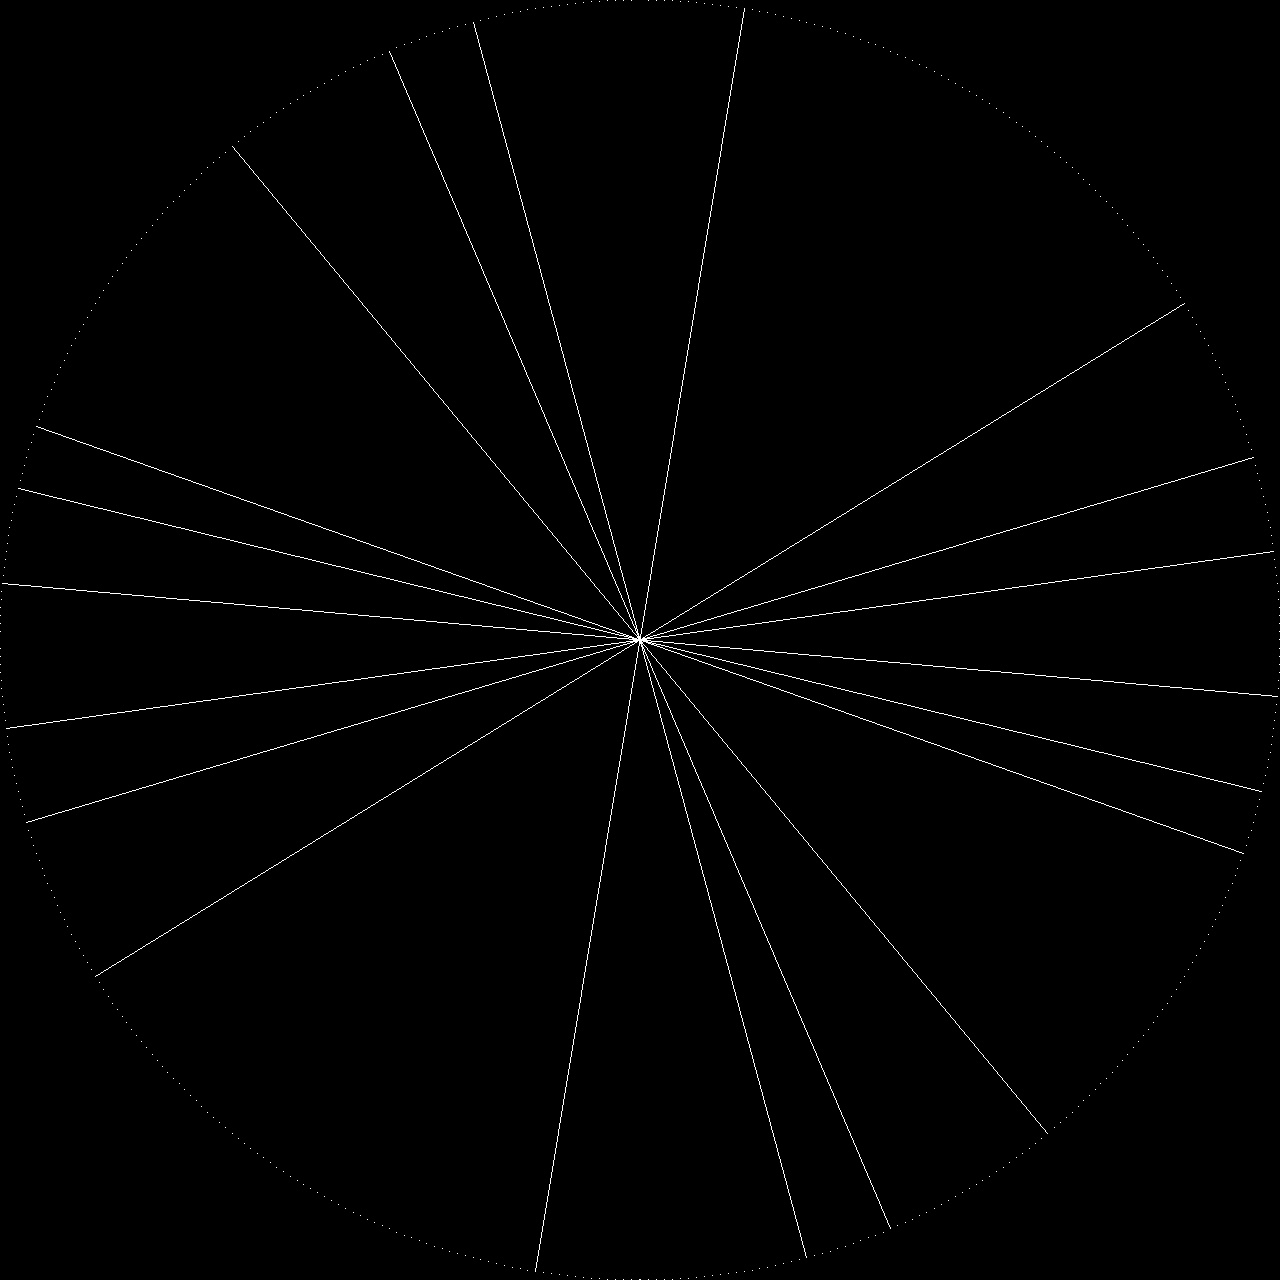
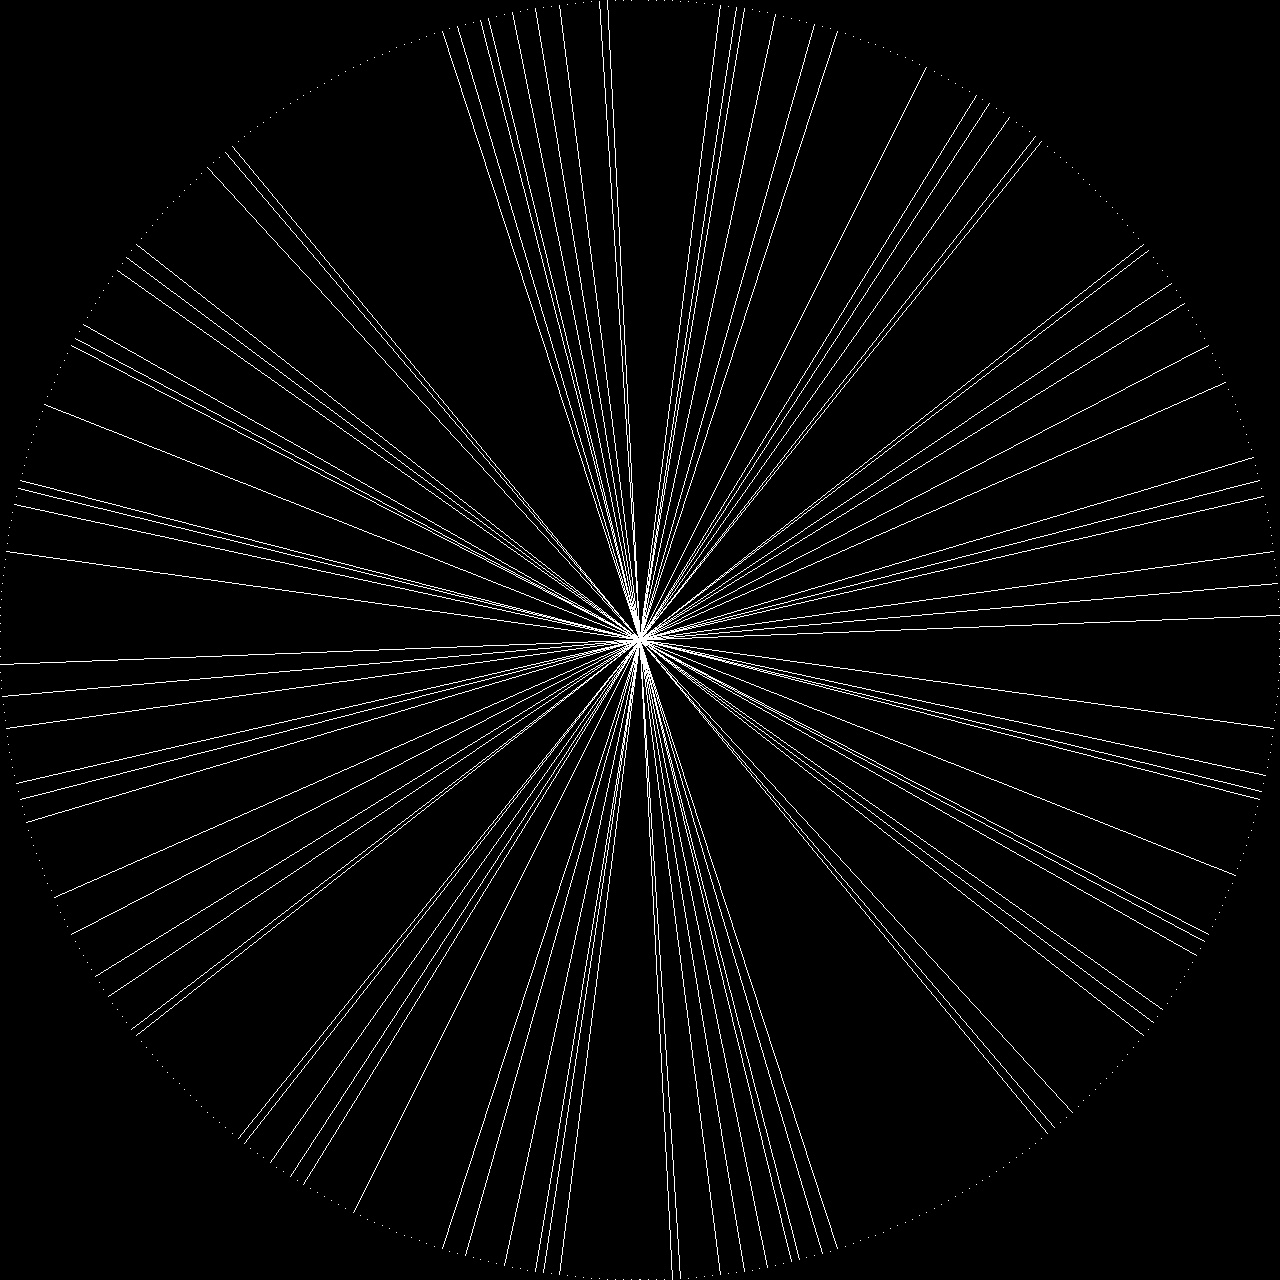
More multithreading for you

diff --git a/main.py b/main.py
@@ -9,6 +9,7 @@ width = 1280
 heigth = 1280
 nails = 500
 nail_pos = list()
+thread_operations = 50
 
 def bresenham(x0, y0, x1, y1):
 	"""Return list of integer (x, y) points on the line from (x0,y0) to (x1,y1)."""
@@ -70,20 +71,29 @@ def opposite_index(i: int, n: int) -> int:
 		raise ValueError("opposite_index requires an even number of nails")
 	return (i + n // 2) % n
 
+def draw_point(angle, nails, img):
+	angle = (2 * math.pi * k) / nails
+	xk = (width/2) + (width / 2) * math.cos(angle)
+	yk = (heigth/2) + (heigth / 2) * math.sin(angle)
+	nail_pos.append((int(xk), int(yk)))
+	img[math.ceil(xk - 1), math.ceil(yk - 1)] = (255, 255, 255)
+
 def run(Image, name: str):
 	original_img = scale(Image)
 	img = np.zeros((width, heigth,3),np.uint8)
 
 	xk = 0
-	for k in range(nails):		
-		angle = (2 * math.pi * k) / nails
-		xk = (width/2) + (width / 2) * math.cos(angle)
-		yk = (heigth/2) + (heigth / 2) * math.sin(angle)
-		nail_pos.append((int(xk), int(yk)))
-		img[math.ceil(xk - 1), math.ceil(yk - 1)] = (255, 255, 255)
+	c_threads = []
+	for k in range(nails):
+		c_threads.append(thr.Thread(target=draw_point, args=(angle, nails, img)))
+	for i in range(nails):
+		c_threads[i].start()
+	for i in range(nails):
+		c_threads[i].join()
+
 	threads = []
 
-	for k in range(10):
+	for k in range(thread_operations):
 		i = random.randint(1, 500)
 		j = opposite_index(i, nails)
 		x1, y1 = nail_pos[i]
@@ -91,10 +101,10 @@ def run(Image, name: str):
 		# draw_line((255, 0, 0), x1, y1, x2, y2, img)
 		threads.append(thr.Thread(target=draw_line, args=((255, 255,255), x1, y1, x2, y2, img)))
 
-	for i in range(10):
+	for i in range(thread_operations):
 		threads[i].start()
 
-	for i in range(10):
+	for i in range(thread_operations):
 		threads[i].join()
 
 	cv2.imwrite("string_" + name,img)
